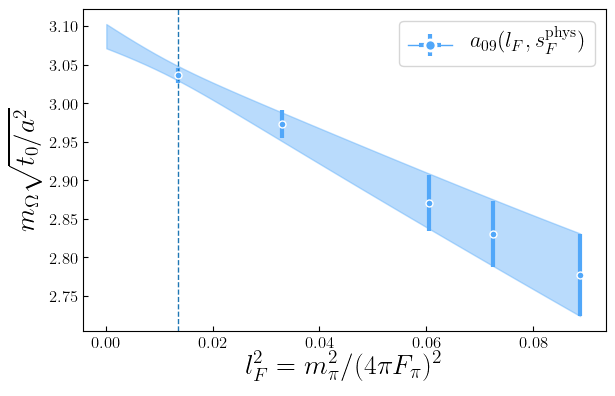
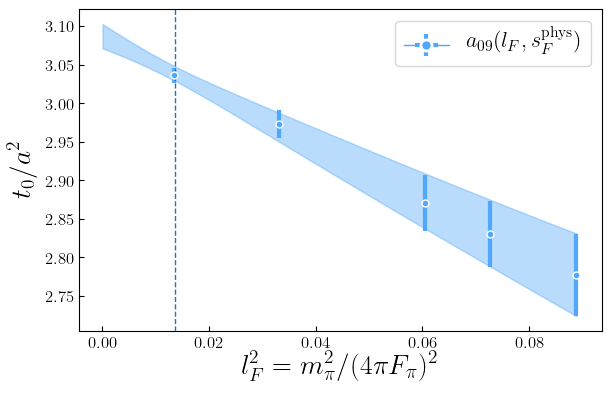
Fix interpolation plot labels

diff --git a/fitter/fit_manager.py b/fitter/fit_manager.py
@@ -632,12 +632,11 @@ class fit_manager(object):
         ]
         plt.legend(handles=handles, labels=[label])#, bbox_to_anchor=(0,1), loc='lower left')
 
-
         plt.xlabel(xlabel)
         if observable == 'w0':
-            plt.ylabel('$w_0 m_\Omega$')
+            plt.ylabel('$w_0 / a$')
         elif observable == 't0':
-            plt.ylabel('$m_\Omega \sqrt{t_0 / a^2}$')
+            plt.ylabel('$t_0 / a^2$')
 
         fig = plt.gcf()
         plt.close()
